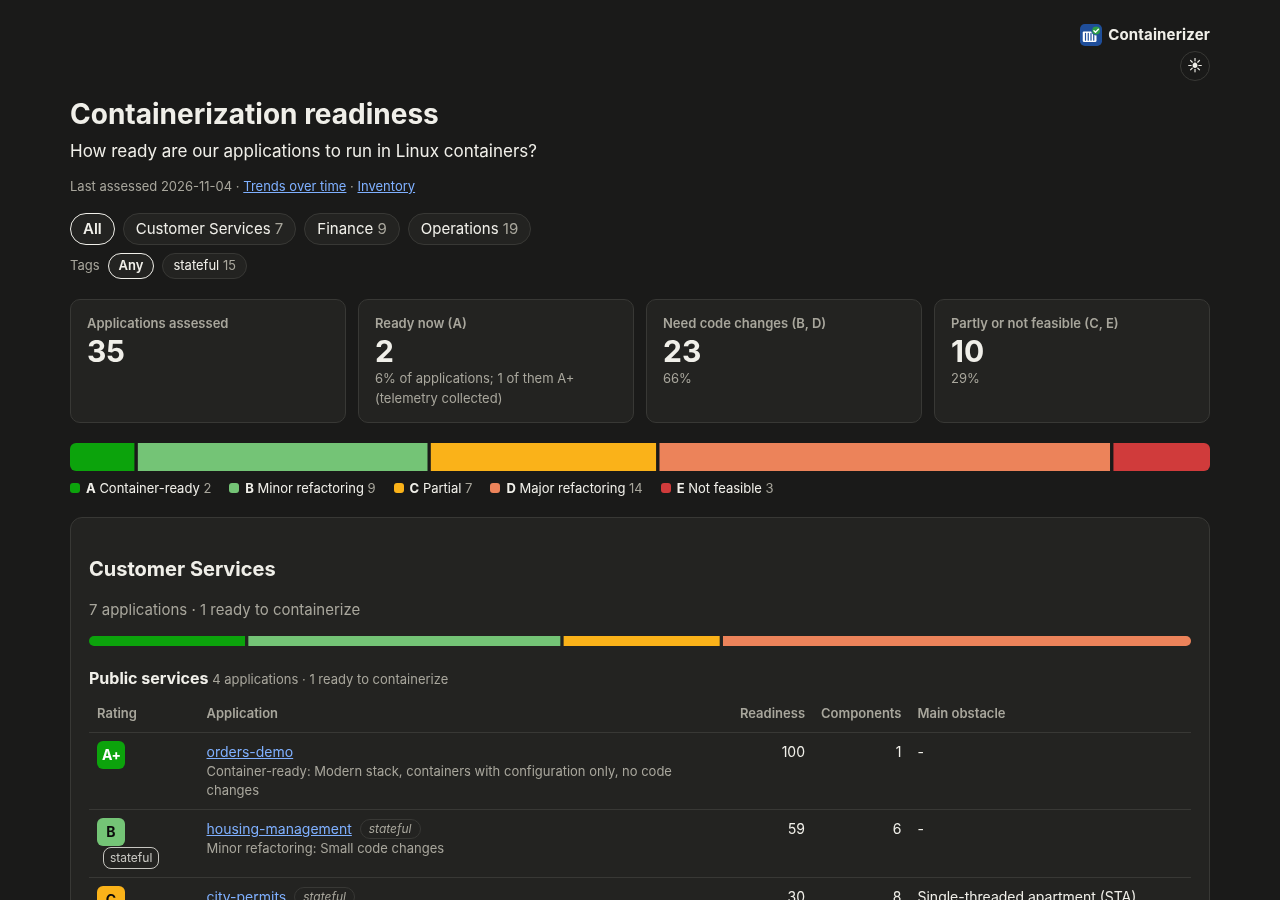
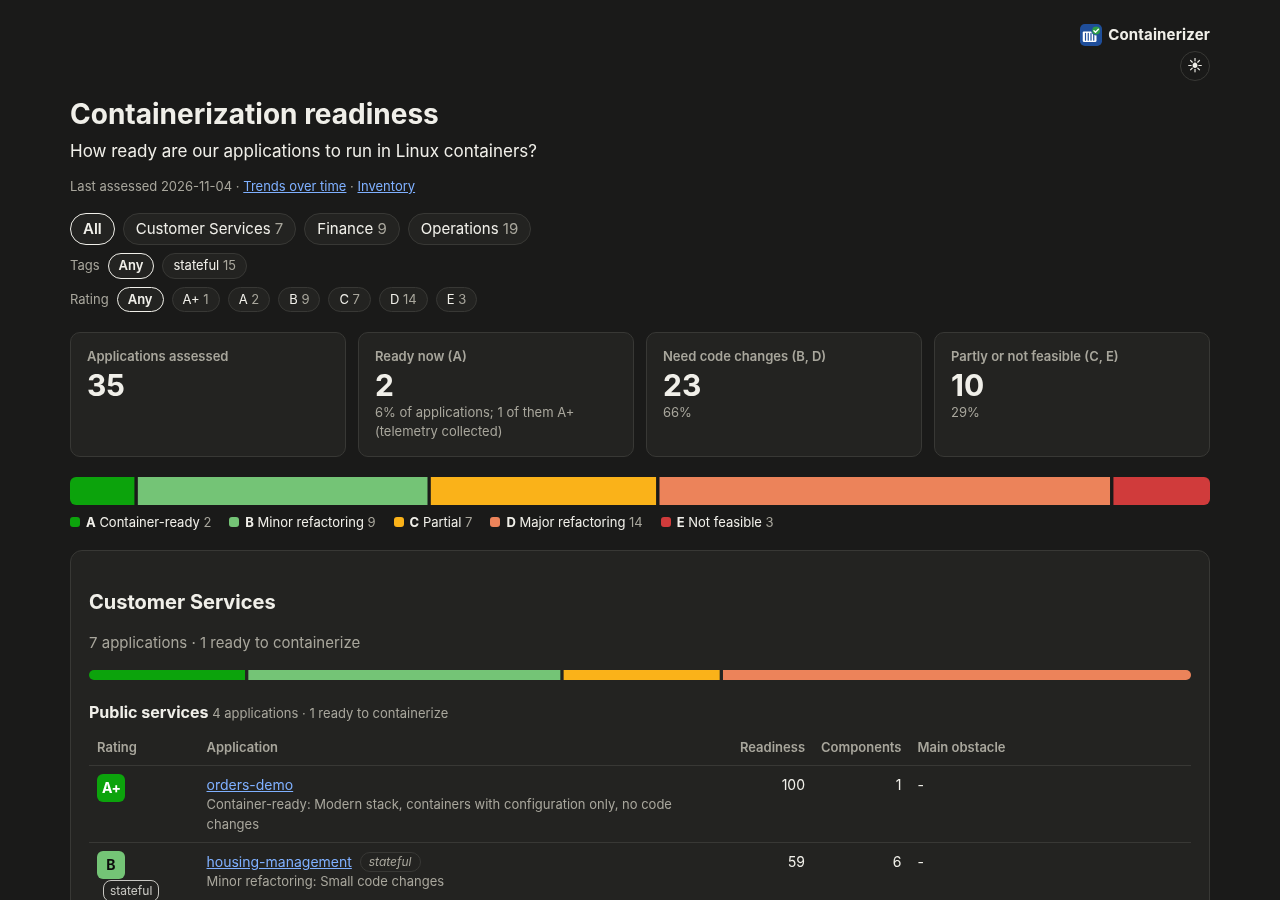
0.53.3: the front page filters by rating
A Rating row under the tags (Any, A+, A, B, C, D, E with counts) lists
only the applications of one rating; A includes the A+. It combines with
the business unit and tag filters. The tiles and the bar keep showing
the whole mix.

Claude-Session: https://claude.ai/code/session_01HpAsQdnXgKgP38ZS8pvyss

diff --git a/containerizer/webui.py b/containerizer/webui.py
@@ -801,8 +801,11 @@ def _bu_href(bu) -> str:
     return "/?bu=" + quote(str(bu if bu is not None else "none"))
 
 
-def _overview_href(bu=None, tag=None) -> str:
-    q = {k: v for k, v in (("bu", bu), ("tag", tag)) if v is not None}
+RATING_FILTERS = ("A+", "A", "B", "C", "D", "E")        # the front page's rating filter: A includes A+
+
+
+def _overview_href(bu=None, tag=None, rating=None) -> str:
+    q = {k: v for k, v in (("bu", bu), ("tag", tag), ("rating", rating)) if v is not None}
     return "/" + ("?" + urlencode(q) if q else "")
 
 
@@ -892,10 +895,11 @@ def a_patches_html(apps: list[dict], nav: str = "") -> str:
 
 
 def render_overview(data: dict, bu_filter: str | None = None, nav: str = "", tag_filter: str | None = None,
-                    admin: bool = True) -> str:
+                    admin: bool = True, rating_filter: str | None = None) -> str:
     """`admin`: the reader may see the applications not mapped to a product yet: an administrator, or anyone where
     there is no sign-in (no admin pages, so nobody else could map them). For everyone else they are left out: nobody
-    has said whose they are."""
+    has said whose they are. `rating_filter` (RATING_FILTERS) narrows the lists of applications; the tiles and the
+    bar above them keep showing the whole mix."""
     apps = data["apps"]
     unmapped_apps = [a for a in apps if a.get("ProductId") is None]
     if not admin:
@@ -930,10 +934,10 @@ def render_overview(data: dict, bu_filter: str | None = None, nav: str = "", tag
     for a in all_apps:
         key = (a["BusinessUnitName"] or "", a["BusinessUnitId"])
         bus.setdefault(key, []).append(a)
-    chips = [f"<a class='chip{' on' if bu_filter is None else ''}' href='{e(_overview_href(tag=tag_filter))}'>All</a>"]
+    chips = [f"<a class='chip{' on' if bu_filter is None else ''}' href='{e(_overview_href(tag=tag_filter, rating=rating_filter))}'>All</a>"]
     for (name, bid), lst in sorted(bus.items(), key=lambda kv: (kv[0][1] is None, kv[0][0].lower())):
         on = bu_filter == str(bid if bid is not None else "none")
-        chips.append(f"<a class='chip{' on' if on else ''}' href='{e(_overview_href(str(bid if bid is not None else 'none'), tag_filter))}'>"
+        chips.append(f"<a class='chip{' on' if on else ''}' href='{e(_overview_href(str(bid if bid is not None else 'none'), tag_filter, rating_filter))}'>"
                      f"{e(name or UNASSIGNED)} <span class='muted'>{len(lst)}</span></a>")
     # tags of the applications in the business unit shown (the one filtered by stays, even with none left)
     tag_n: dict = {}
@@ -946,15 +950,31 @@ def render_overview(data: dict, bu_filter: str | None = None, nav: str = "", tag
     tag_chips = []
     if tag_n:
         tag_chips.append(f"<span class='muted small'>Tags</span><a class='chip tagchip{' on' if tag_filter is None else ''}' "
-                         f"href='{e(_overview_href(bu_filter))}'>Any</a>")
+                         f"href='{e(_overview_href(bu_filter, rating=rating_filter))}'>Any</a>")
         for k, (t, n) in sorted(tag_n.items()):
             on = tag_filter is not None and tag_filter.casefold() == k
-            tag_chips.append(f"<a class='chip tagchip{' on' if on else ''}' href='{e(_overview_href(bu_filter, None if on else t))}'"
+            tag_chips.append(f"<a class='chip tagchip{' on' if on else ''}' href='{e(_overview_href(bu_filter, None if on else t, rating_filter))}'"
                              f"{' aria-current=true' if on else ''}>{e(t)} <span class='muted'>{n}</span></a>")
+
+    def rated(a, r):
+        return a.get("Rating") == "A" and bool(a.get("Plus")) if r == "A+" else a.get("Rating") == r
+    rating_chips = []
+    if apps:
+        rating_chips.append(f"<span class='muted small'>Rating</span><a class='chip tagchip{' on' if rating_filter is None else ''}' "
+                            f"href='{e(_overview_href(bu_filter, tag_filter))}'>Any</a>")
+        for r in RATING_FILTERS:
+            n = sum(1 for a in apps if rated(a, r))
+            if not n and r != rating_filter:
+                continue
+            on = r == rating_filter
+            rating_chips.append(f"<a class='chip tagchip{' on' if on else ''}' "
+                                f"href='{e(_overview_href(bu_filter, tag_filter, None if on else r))}'"
+                                f"{' aria-current=true' if on else ''}>{e(r)} <span class='muted'>{n}</span></a>")
+    listed = [a for a in apps if rated(a, rating_filter)] if rating_filter is not None else apps
 
     sections = []
     groups: dict = {}
-    for a in apps:
+    for a in listed:
         groups.setdefault((a["BusinessUnitName"] or "", a["BusinessUnitId"]), {}).setdefault(
             (a["ProductName"] or "", a["ProductId"]), []).append(a)
     for (bu, bid), products in sorted(groups.items(), key=lambda kv: (kv[0][1] is None, kv[0][0].lower())):
@@ -1004,9 +1024,10 @@ def render_overview(data: dict, bu_filter: str | None = None, nav: str = "", tag
 {empty}<nav class='chips'>{''.join(chips) if all_apps else ''}</nav>
 {f"<nav class='chips tags' aria-label='Filter by tag'>{''.join(tag_chips)}</nav>" if tag_chips else ''}
 {f"<p class='muted'>No applications{' in this business unit' if bu_filter is not None else ''} have the tag <b>{e(tag_filter)}</b>.</p>" if tag_filter is not None and not apps and all_apps else ''}
+{f"<nav class='chips tags' aria-label='Filter by rating'>{''.join(rating_chips)}</nav>" if rating_chips else ''}
 <div class='tiles'>{tiles if all_apps else ''}</div>
 {f"<div class='overall'>{segmented(c, total, 'Ratings of all applications shown')}{legend(c)}</div>" if total else ''}
-{note}{''.join(sections)}
+{note}{f"<p class='muted'>No applications shown here are rated <b>{e(rating_filter)}</b>.</p>" if rating_filter is not None and apps and not listed else ''}{''.join(sections)}
 <footer>{legend()}<p class='muted small'>Readiness is 0-100 (higher is better) across the server components.
 Ratings come from rule-based analysis of the source code,
 and where noted were confirmed by building and running the generated containers.</p></footer>""")
@@ -1753,8 +1774,9 @@ def _keep_query(path: str, q: dict) -> str:
     if path == "/connectivity":
         return urlencode([(k, q[k][0]) for k in ("product", "bu") if re.fullmatch(r"\d{1,9}", (q.get(k) or [""])[0])])
     if path == "/":
-        bu = q.get("bu", [None])[0]
-        return f"bu={bu}" if bu and re.fullmatch(r"\d{1,9}|none", bu) else ""
+        bu, rating = q.get("bu", [None])[0], q.get("rating", [None])[0]
+        return urlencode([(k, v) for k, v in (("bu", bu if bu and re.fullmatch(r"\d{1,9}|none", bu) else None),
+                                              ("rating", rating if rating in RATING_FILTERS else None)) if v])
     return ""
 
 
@@ -1966,9 +1988,12 @@ def make_handler(connect, admin=None):
                         tag = " ".join(parse_qs(u.query).get("tag", [""])[0].split()) or None
                         if tag is not None and not TAG_RE.fullmatch(tag):
                             tag = None
+                        rating = parse_qs(u.query).get("rating", [None])[0]
+                        if rating not in RATING_FILTERS:
+                            rating = None
                         s, cookie = admin.dev_session(self.headers) if admin else (None, [])
                         sees_unmapped = admin is None or bool(s and s.admin)
-                        return self._send(200, render_overview(load_overview(conn), bu, nav, tag, sees_unmapped),
+                        return self._send(200, render_overview(load_overview(conn), bu, nav, tag, sees_unmapped, rating),
                                           head=head, forms=bool(nav), extra=cookie or None)
                     finally:
                         conn.close()

diff --git a/tests/test_tags.py b/tests/test_tags.py
@@ -94,3 +94,25 @@ def test_results_page_shows_the_automatic_tag_outside_the_editor(monkeypatch):
                          "OnlyCommands": None}]}
     html = webui._tags_section(app, {"tags_csrf": "<input type='hidden'>"})
     assert "class='tag auto' href='/?tag=stateful'" in html and "value='pci'" in html
+
+
+def test_overview_rating_filter():
+    apps = [dict(_app(1, "billing", 1, "pci"), Rating="A", Plus=True), dict(_app(2, "ledger", 1, "pci"), Rating="A"),
+            _app(3, "freight", 2, None)]
+    data = {"apps": apps, "unmapped": {}}
+    html = webui.render_overview(data)
+    assert "aria-label='Filter by rating'" in html
+    assert "href='/?rating=A%2B'>A+ <span class='muted'>1</span>" in html
+    assert "href='/?rating=A'>A <span class='muted'>2</span>" in html and "href='/?rating=B'>B <span" in html
+    assert "?rating=C" not in html                                             # no application rated C: no chip
+    html = webui.render_overview(data, rating_filter="A+")
+    assert "/app/1'" in html and "/app/2'" not in html and "/app/3'" not in html
+    assert "Applications assessed</div><div class='value'>3<" in html          # the tiles keep the whole mix
+    html = webui.render_overview(data, rating_filter="A")
+    assert "/app/1'" in html and "/app/2'" in html and "/app/3'" not in html
+    # kept in the other filters' links, and they in its own
+    html = webui.render_overview(data, bu_filter="1", tag_filter="pci", rating_filter="B")
+    assert "No applications shown here are rated <b>B</b>" in html
+    assert "href='/?bu=2&amp;tag=pci&amp;rating=B'" in html and "href='/?bu=1&amp;tag=pci'>Any</a>" in html
+    assert webui._keep_query("/", {"bu": ["1"], "rating": ["A+"]}) == "bu=1&rating=A%2B"
+    assert webui._keep_query("/", {"rating": ["x"]}) == ""

diff --git a/containerizer/__init__.py b/containerizer/__init__.py
@@ -1,2 +1,2 @@
 # Released versions are tagged vX.Y.Z; keep this in step with the tag (see CHANGELOG.md).
-__version__ = "0.53.2"
+__version__ = "0.53.3"

diff --git a/docs/sign-in.md b/docs/sign-in.md
@@ -169,6 +169,14 @@ address (`/?bu=3&tag=pci`) can be shared or bookmarked. The [API](api.md) return
 ![The front page filtered by a tag: only the applications with it, counted in the tiles](images/front-tags.png#only-light){ .cz-shot }
 ![The front page filtered by a tag: only the applications with it, counted in the tiles](images/front-tags-dark.png#only-dark){ .cz-shot }
 
+The **Rating** row below it lists only the applications of one rating: **A+**, **A** (which includes the A+), **B**,
+**C**, **D** or **E**, each with how many of the applications shown have it. It combines with the other two
+(`/?bu=3&tag=pci&rating=B`); the tiles and the bar above the lists keep showing the whole mix, so the share of
+each rating stays in view.
+
+![The front page filtered by a rating: the Rating row, and only the applications rated A](images/front-rating.png#only-light){ .cz-shot }
+![The front page filtered by a rating: the Rating row, and only the applications rated A](images/front-rating-dark.png#only-dark){ .cz-shot }
+
 ## Sign-in for the results pages (optional)
 
 By default anyone who reaches the web UI over HTTPS can read the results. Set `CONTAINERIZER_VIEWERS`

diff --git a/CHANGELOG.md b/CHANGELOG.md
@@ -8,6 +8,12 @@ yourself: a tag push starts the release too). Each release publishes the applian
 release (X.Y.Z, Z > 0) must not change the OS image (`appliance/`, `monitoring/`) since X.Y.0: appliances install
 it as an app update, without an OS upgrade. OS changes go into a minor or major release.
 
+## 0.53.3 (2026-11-23)
+
+- **The front page filters by rating**: the **Rating** row under the tags lists only the applications rated A+, A
+  (with the A+), B, C, D or E, each with its count. It combines with the business unit and the tag; the tiles and
+  the bar keep showing the whole mix.
+
 ## 0.53.2 (2026-11-23)
 
 - **Fixed: Make it A+ instrumented nothing in an application moved from another platform** (Docker Compose, Nomad,

diff --git a/docs/index.md b/docs/index.md
@@ -305,7 +305,8 @@ and last seen. Search a binary, a database server or a host to find every applic
 ### Tag it, filter by it
 
 Administrators and operators tag applications (customer-facing, PCI, migration wave 1, ...), and everyone
-filters the front page by a tag: the tiles and bars then count only those applications.
+filters the front page by a tag: the tiles and bars then count only those applications. The **Rating** row
+below the tags lists only the applications of one rating (A+, A, B, C, D or E).
 
 [Application tags :octicons-arrow-right-24:](sign-in.md#application-tags)
 
